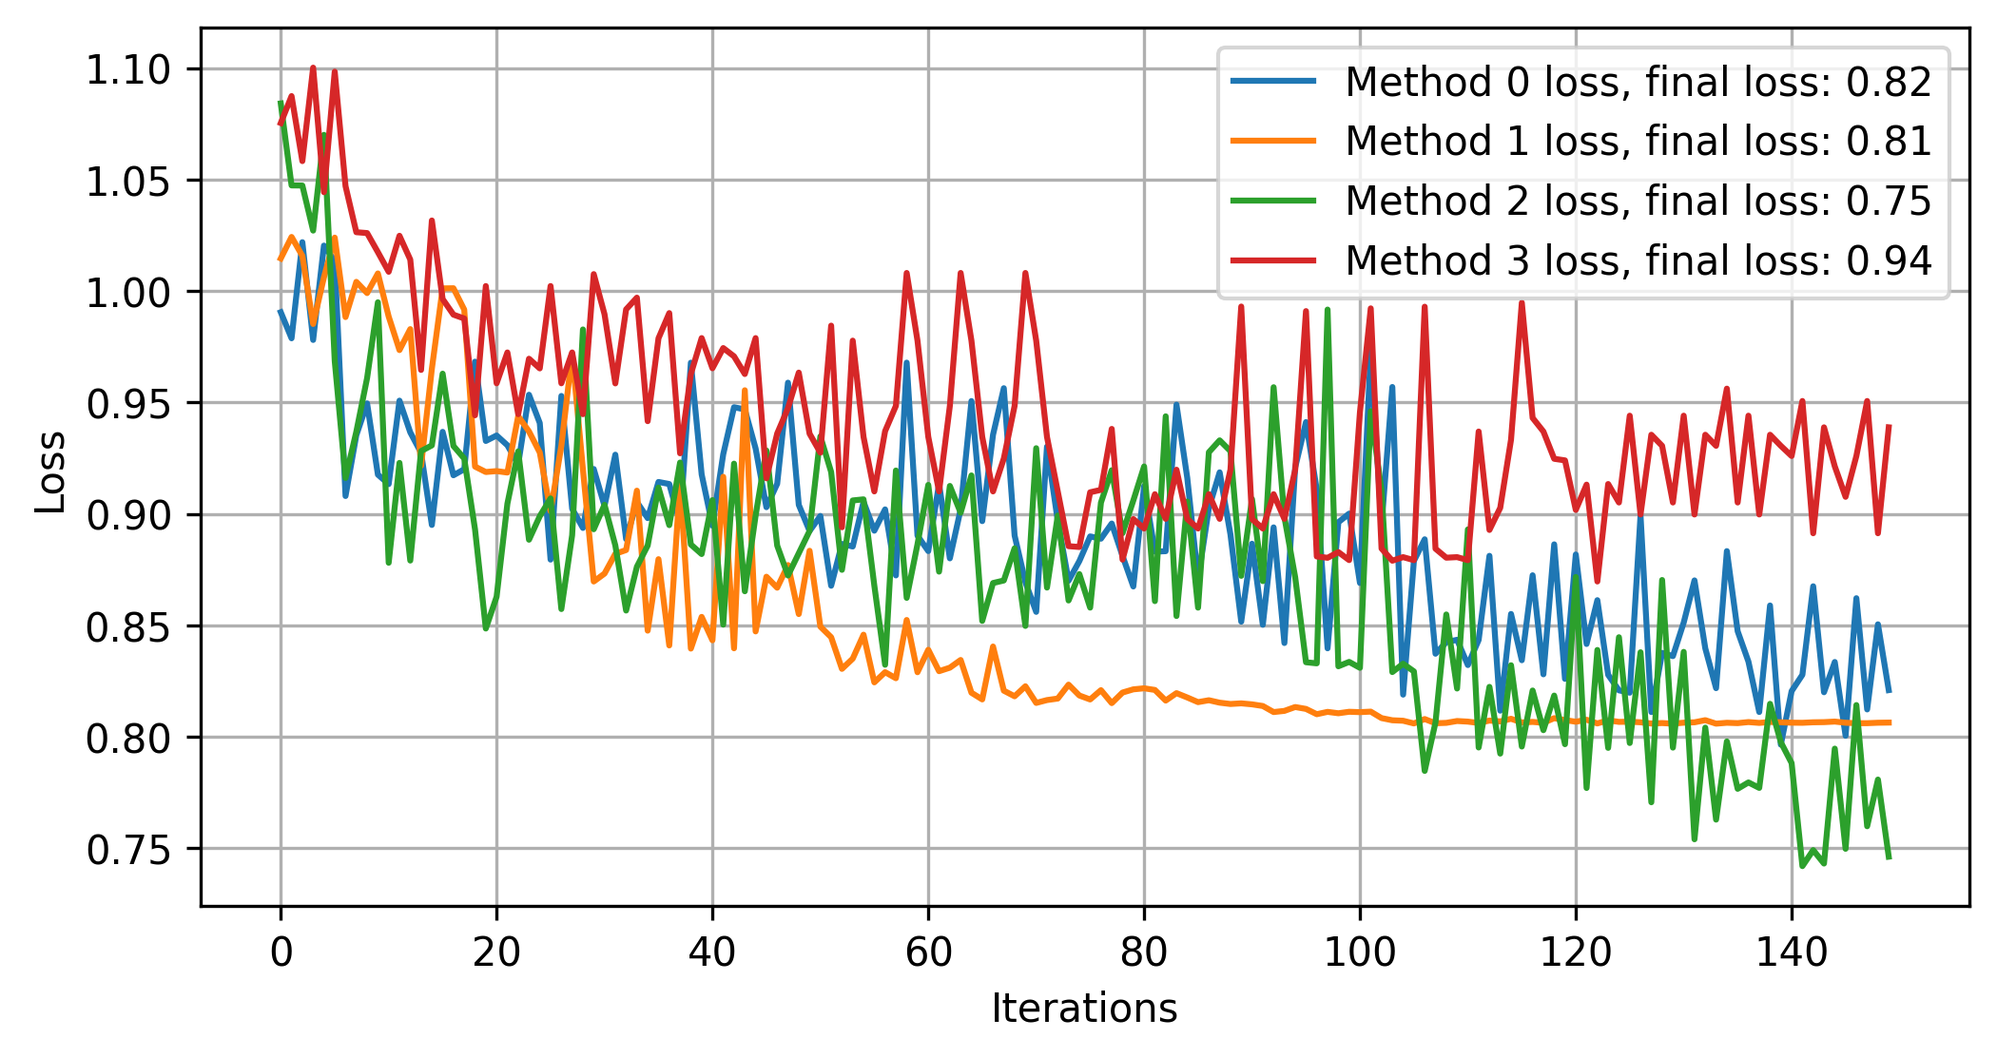
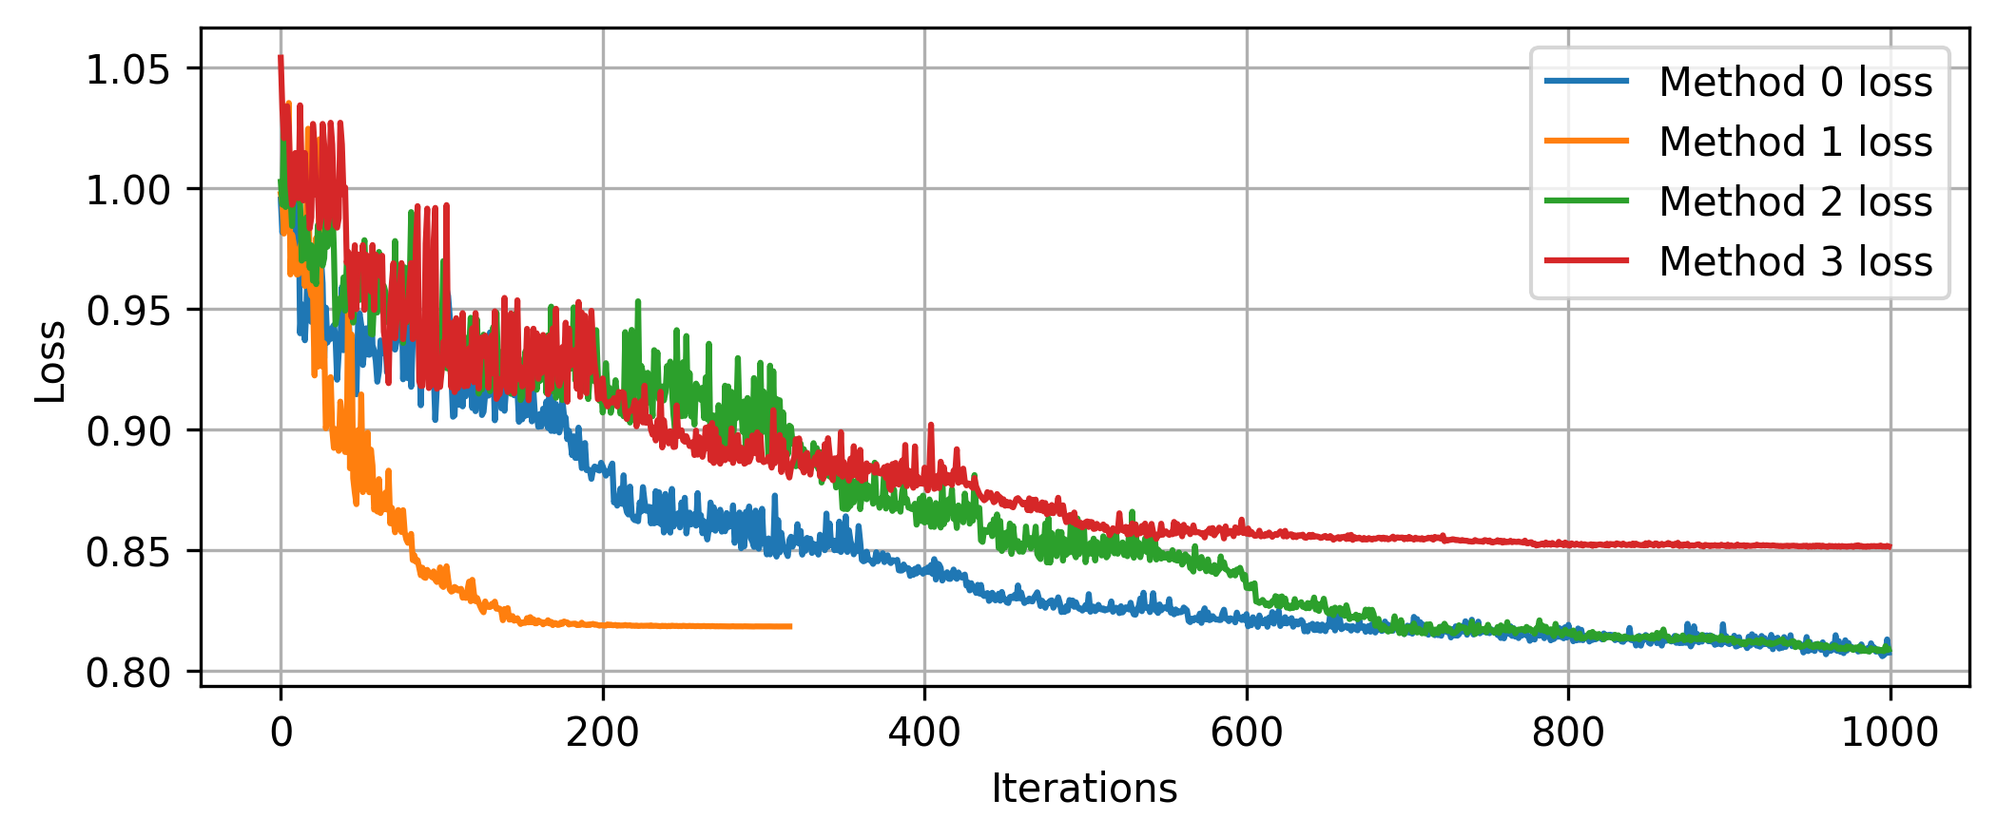
Reform the paper sections

Changed region(s): [[0.0, 0.0, 0.9905, 0.9796]]

diff --git a/Artefact/Content/Results.tex b/Artefact/Content/Results.tex
@@ -1,4 +1,4 @@
-\section{Findings} \label{Result section}
+% \section{Findings} \label{Result section}
 
 \subsubsection{Sampling Gradients results} \label{Sec: Sampling Gradients results}
 \begin{table*}
@@ -97,15 +97,15 @@ On the other hand, the values for the other cases shrink exponentially and event
     \centering
     \begin{tabular}{|| p{4cm} p{2cm} p{2cm} p{2cm} p{2cm} ||}
         \hline
-        \textbf{Method}                          & \textbf{Circuit depth} & \textbf{Parameters count} & \textbf{Reached loss} & \textbf{Accuracy Score} \\
+        \textbf{Method}                          & \textbf{Circuit depth} & \textbf{Parameters count} & \textbf{Accuracy at 150 iteration} & \textbf{Accuracy at 1000 iterations} \\
         \hline \hline
-        0: No Restriction                        & 161                    & 105                       & 0.82                  & 60\%                    \\
+        0: No Restriction                        & 123                    & 105                       & 60\%                               & 82.50\%                              \\
         \raggedright
         \hangindent=1em
         \hangafter=1
-        1: Local Cost Function - Shallow circuit & 25                     & 20                        & 0.81                  & 75\%                    \\
-        2: Layerwise Learning                    & 161                    & 105                       & 0.75                  & 82.5\%                  \\
-        3: Identity Blocks                       & 200                    & 200                       & 0.94                  & 77.5\%                  \\
+        1: Local Cost Function - Shallow circuit & 21                     & 20                        & 75\%                               & 75\%                                 \\
+        2: Layerwise Learning                    & 123                    & 105                       & 82.5\%                             & 82.5\%                               \\
+        3: Identity Blocks                       & 100                    & 100                       & 77.5\%                             & 77.5\%                               \\
         \hline
     \end{tabular}
     \caption{
@@ -115,19 +115,19 @@ On the other hand, the values for the other cases shrink exponentially and event
     \label{Tab: Experiment Phase 2 Res}
 \end{table*}
 
-We examine the practical performance of four models after 150 iterations of COBYLA optimisation, the results are shown in Table \ref{Tab: Experiment Phase 2 Res}.
+We examine the practical performance of four models at 150 and 1000 iterations of COBYLA optimisation, the results are shown in Table \ref{Tab: Experiment Phase 2 Res} and Figure \ref{Fig: Plot Loss and Accuracy}.
+Overall, the methods that involve configurations on the initial parameters can achieve lower loss in training and higher score on the classification test.
 
+We can see that while the unrestricted method has produced better result at 1000 iterations, the other methods accuracy remain unchanged after 150 seconds.
+The unrestricted method is likely to run into barren plateaus, therefore require more optimisation steps to find the global minimum.
 The unrestricted ansatz, as expected, performed the worst compared to the others.
-The local cost function - shallow depth ansatz seems to be the best in overcoming barren plateau as discussed in Section \ref{Sec: Sampling Gradients results}, and its accuracy score is indeed better than the unrestricted ansatz.
+
+The local cost function - shallow depth ansatz seems to be the best in overcoming barren plateau as discussed in Section \ref{Sec: Sampling Gradients results}, and the optimisation process indeed ended earlier compared to the other ansatzes (see Figure \ref{Fig: Plot Loss and Accuracy}a).
+We can see that at 150 iterations, the ansatz has more accuracy compared to the unrestricted method (see Figure \ref{Fig: Plot Loss and Accuracy}b).
 However, by restricting the ansatz depth, we may have limited the model capacity, therefore high error rate.
 On the other hand, the unrestricted ansatz has more layers and therefore more capacity to learn, but it is more likely to run into barren plateaus.
 This also applies to classical machine learning \cite{ianDeepLearningAdaptive2016}, more complex functions would require higher model capacity.
 Thus, the local cost function - shallow depth method is suitable if the dataset represents a simple function.
-
-% The unrestricted and local cost function - shallow depth ansatzes loss functions both converged at a value of 0.57.
-% The unrestricted ansatz, while converging to a value, the accuracy score of the classification test is the lowest (72.5\%).
-% Thus, the model is likely to stuck on a barren plateau, instead of converging into the global minima.
-% On the other hand, we can see that the local cost function and shallow circuit ansatz achieved higher accuracy in the classification test (at 80\% accuracy).
 
 The last two methods focused on the initial parameters while allowing longer circuits, resulting in better capacity to learn.
 We can see that with the optimised initial parameters, the ansatz has better accuracy compared to identity blocks initialisation.
@@ -136,8 +136,8 @@ The two methods also have their accuracy close to each other, scoring at 82.5\% 
 Thus they are suitable for designing ansatzes of higher layer count to learn more complex functions.
 
 
-To compare the effectiveness of different approaches, we plot the loss per iteration graph of above mention cases in Figure \ref{Fig: Plot Loss and Accuracy} and Table \ref{Tab: Experiment Phase 2 Res}
-Overall, the methods that involve configurations on the initial parameters can achieve lower loss in training and higher score on the classification test.
+% To compare the effectiveness of different approaches, we plot the loss per iteration graph of above mention cases in Figure \ref{Fig: Plot Loss and Accuracy} and Table \ref{Tab: Experiment Phase 2 Res}.
+% 
 
 \begin{figure}
     \begin{subfigure}{\linewidth}
@@ -146,7 +146,7 @@ Overall, the methods that involve configurations on the initial parameters can a
     \end{subfigure}
     \begin{subfigure}{\linewidth}
         \includegraphics[width=\linewidth]{Artefact/Appendices/accuracy.png}
-        \centerline{b) Accuracy score of four classifiers}
+        \centerline{b) Accuracy score of four classifiers after 150 optimisation steps}
     \end{subfigure}
 
     \caption{

diff --git a/ResearchDesign/Content/Classification.tex b/ResearchDesign/Content/Classification.tex
@@ -1,4 +1,4 @@
-\subsection{Classification Problem} \label{Sec: Classification Problem}
+\subsubsection{Classification Problem} \label{Sec: Classification Problem}
 We implement a variational quantum classifier as previously discussed in the section \ref{VQA}.
 The algorithm includes two stages: a training stage and a classification stage.
 We use a dataset which contain thirty features to identify the presence of breast cancer.
@@ -6,17 +6,23 @@ We apply Principal Component Analysis to the dataset obtain five training featur
 
 The quantum circuit for is constructed from three parts: the feature map to encode data, the ansatz to perform optimisation and finally, a final rotation layer for measurement (see Figure \ref{Fig: Quantum circuit for classifier}).
 The number of features will dictate the number of qubits, in our case, we will be using two qubits for the quantum circuit.
-For the methods unrestricted and layerwise learning, there is no restriction on ansatz depth, so we build the ansatz to have 20 repetitions (165 depth units).
-For the method local cost function - shallow depth, we only use three repetitions (25 depth units).
+For the methods unrestricted and layerwise learning, there is no restriction on ansatz depth, so we build the ansatz to have 20 repetitions (123 depth units).
+For the method local cost function - shallow depth, we only use five repetitions (100 depth units).
 For the identity blocks method, we will be using ten identity blocks as the ansatz, which results in 200 depth units.
 
-\todo{describe more about COBYLA and its characteristic}
 The dataset consisted of 80 labelled datapoints with five features used for the training process.
-The COBYLA algorithm provided by Qiskit will estimate the quantum circuit to optimise the ansatz parameters in maximum of 150 iterations.
+The COBYLA algorithm provided by Qiskit will estimate the quantum circuit to optimise the ansatz parameters in maximum of 1000 iterations.
 The cost function value for COBYLA algorithm is calculated as squared error.
+Compared to Gradient Descent, COBYLA algorithm perform random search to avoid local minima in the cost function landscape.
+The algorithm was also reported to have better runtime performance compared to traditional gradient descent \cite{huangEmpiricalStudyOptimizers2020, bonet-monroigPerformanceComparisonOptimization2021}.
+For the traditional gradient descent algorithm, it may require tuning on its hyperparameters to achieve better speed and quality, due to time constraints we leave this matter for future experiment.
+
 For the classification benchmark, we use another set of 20 datapoints, and run the classifier with the optimised parameters obtained from the training stage.
 The classifier would produce the predicted labels for each testing datapoint.
 Then, we compare these predicted labels to the actual provided labels.
+We record the classification results at 150 iterations and 1000 iterations.
+
+
 
 We collect the optimiser' history (loss function per iteration) by implementing a callback function for the variational quantum classifier.
 The accuracy score $s$ of the classifier is calculated as the percentage likeliness of the predicted labels array compared to the actual labels array:

diff --git a/Artefact/Content/Summary.tex b/Artefact/Content/Summary.tex
@@ -8,13 +8,20 @@ With this artefact, we have addressed the research design in Section \ref{Resear
 We have implemented the three methods, namely \textit{local cost function, shallow ansatz depth}, \textit{layerwise learning} and \textit{identity blocks}.
 We have compared the variances in the first phase of the experiment.
 According to Figure \ref{Fig: Plot Variances}, the variance values of the limited depth - cost function method at seven qubits configuration is significantly higher than the rest.
-% At higher qubit configuration, the barren plateaus are also more likely to appear, and the performance of these methods under this phenomenon is worth investigating.
 We anticipate that a higher variance value does not mean the optimisation is going in the right direction, the model can still stick it in a local minimum, or the error landscape is random.
 To verify the performance of these methods, in the second phase, we implemented a variational quantum neural network to solve a classification problem with a standard dataset.
 
 The phase two of the experiments have verified that the unrestricted configuration may have run into a barren plateau, while the others can converge to their minimums - the answers.
 Moreover, these experiments are conducted in an emulated environment with a noise model from \emph{ibm\_perth} backend.
 Thus, this experiment can reflect the real-life situation to some extent.
+
+
+So far we have tested the ansatzes with extended number of layers.
+However, the number of qubits is also a factor that leads to barren plateaus.
+While it is possible to run the exepriment with higher qubit counts to replicate the result by Cereze et al. \cite{cerezoCostFunctionDependent2021}, due to constraints in time and computation resourses, we only use up to five qubits with COBYLA optimiser.
+The research also open a new question about the relationship between model capacity, datasets and barren plateau.
+Furthermore, we have not covered the performance comparison between identity blocks and the real amplitude circuit in general use cases.
+These issues are left for further studies and experiments.
 
 % According to Figure \ref{Fig: Plot Variances}, the variance values of the limited depth - cost function method at seven qubits configuration is significantly higher than the rest.
 % At higher qubit configuration, the barren plateaus are also more likely to appear, and the performance of these methods under this phenomenon is worth investigating.

diff --git a/ResearchDesign/Content/Data-Artefact.tex b/ResearchDesign/Content/Data-Artefact.tex
@@ -6,16 +6,6 @@ The notebook will require some pre-installed resources to execute (refer to Sect
 As we are conducting experiments on quantum circuits, quantum hardware is also required.
 The notebook will be configured to communicate with an IBM quantum device.
 
-% I tried to describe the output form of the python notebook, but it is more like a duplicate with section Research Activities above, so I removed this section
-% \almarginpar{I do not understand this}After the first phase, we will obtain the selected ansatzes objects with the four treatments applied (see Figure \ref{Research Activities Figure}) and their variance shrinking rates.
-% The shrinking rate can be recorded as a list of numbers and presented as line graphs (for example, see Figure \ref{Variance Shrinking demo}).
-% With this data, we can fulfil the first criteria in the Section \ref{Criteria section} by comparing the shrinking rate of each method.
-
-% For the second phase, we will need to further develop the ansatzes from phase one into QNN models. We use the same input data and the optimiser across all models to preserve clarity.
-% We run the models along with a benchmark script that records the progress and properties of models (refer to Section \ref{Criteria section})
-
-% Finally, we summarise the research results and present the findings.
-
 \subsubsection{Success Condition}
 The experiment will be concluded when these conditions are met:
 \begin{itemize}
@@ -24,3 +14,7 @@ The experiment will be concluded when these conditions are met:
     \item The ansatzes are implemented as QNN models to solve problems.
     \item The outcomes are evaluated against the criteria.
 \end{itemize}
+
+\input{ResearchDesign/Content/VisualGradient.tex}
+
+\input{ResearchDesign/Content/Classification.tex}

diff --git a/Artefact/main.tex b/Artefact/main.tex
@@ -1,4 +1,4 @@
-\section{Artefact Development Report}\label{Minimum Artefact section}
+\section{Artefact Evaluation and Disscussions} \label{Result section}
 
 In this section, we describe the progress on the artefact development, the detail and context for the experiments are given as Section \ref{Research Design section}.
 We address the process (see Section \ref{Research Activities section}) by implementing a series of exploratory experiments.
@@ -8,19 +8,19 @@ We use the hardware noise sample from the device \emph{ibm\_perth} to configure 
 
 We have chosen the ansatz \emph{Real Amplitude} and a custom ansatz (see Section \ref{Sec: Creating Ansatzes}) as the objects of study.
 The four treatments applied to these ansatzes are further discussed in Section \ref{Sec: Treatments for ansatzes} (see Table \ref{implementation of methods table} and Figure \ref{Research Activities Figure}).
-We summarise the experiment results from Section \ref{Result section} in Table \ref{Tab: Experiment Phase 1 Res} and \ref{Tab: Experiment Phase 2 Res}.
+We summarise the experiment results in Table \ref{Tab: Experiment Phase 1 Res} and Table \ref{Tab: Experiment Phase 2 Res}.
 
 
 
-\input{Artefact/Content/QuantumProvider.tex}
+% \input{Artefact/Content/QuantumProvider.tex}
 
-\input{Artefact/Content/Ansatzes.tex}
+% \input{Artefact/Content/Ansatzes.tex}
 
-\input{Artefact/Content/Treatments.tex}
+% \input{Artefact/Content/Treatments.tex}
 
-\input{Artefact/Content/VisualGradient.tex}
+% \input{Artefact/Content/VisualGradient.tex}
 
-\input{Artefact/Content/Classification.tex}
+% \input{Artefact/Content/Classification.tex}
 
 \input{Artefact/Content/Results.tex}
 

diff --git a/ProjectDesc/Content/objectives.tex b/ProjectDesc/Content/objectives.tex
@@ -12,7 +12,7 @@ To answer the above research question, it will be necessary to meet the followin
           \begin{enumerate}
               \item Provide the background information for quantum computing, VQA and QNN, which enables definition of the research question (completed, see Section \ref{Sec: Background Section});
               \item Define the BP problem and the causes that would lead to this phenomenon \cite{wangNoiseinducedBarrenPlateaus2021,zhaoAnalyzingBarrenPlateau2021} (completed, see Section \ref{Problem Section});
-              \item Investigate several methods to mitigate or avoid BP \cite{pesahAbsenceBarrenPlateaus2021, pattiEntanglementDevisedBarren2021,liuParameterInitializationMethod2021} (completed as minimum viable artefact, see Section \ref{Minimum Artefact section});
+              \item Investigate several methods to mitigate or avoid BP \cite{pesahAbsenceBarrenPlateaus2021, pattiEntanglementDevisedBarren2021,liuParameterInitializationMethod2021};
           \end{enumerate}
     \item Trimester 2 - 2022: Addressing the gaps
           \begin{enumerate}

diff --git a/ResearchDesign/Content/Ansatzes.tex b/ResearchDesign/Content/Ansatzes.tex
@@ -1,4 +1,4 @@
-\subsection{Creating Ansatzes} \label{Sec: Creating Ansatzes}
+\subsubsection{Creating Ansatzes} \label{Sec: Creating Ansatzes}
 We have chosen the \textit{Real Amplitudes} ansatz from Qiskit circuit library.
 An example of circuits generated by Qiskit is visualised in Figure \ref{Fig: Ansatz samples}.
 We can generate different ansatz by altering the repetition number and qubit number.
@@ -22,5 +22,5 @@ Figure \ref{Fig: Ansatz samples} further shows that the higher number of qubits 
     \label{Fig: Ansatz samples}
 \end{figure}
 
-For the case of method 3, we will be using a customised ansatz, since reversing an ansatz would cancel the effect of the entanglement layer.
+For the case of identity block method, we will be using a customised ansatz, since reversing an ansatz would cancel the effect of the entanglement layer.
 The customised ansatz are specialised to create identity blocks without losing the entanglement layers, section \ref{Sec: Method3} gives further discussion of this ansatz.

diff --git a/ResearchDesign/Content/Activity.tex b/ResearchDesign/Content/Activity.tex
@@ -5,6 +5,7 @@ We implement the process with an experiment of two phases:
 \textbf{In the first phase, we reproduce the barren plateaus phenomenon.}
 We use Qiskit \cite{Qiskit} to construct the ansatzes.
 For each ansatz, we implement and apply four different methods (see Figure \ref{Research Activities Figure} and Table \ref{implementation of methods table}).
+Further implementation of the four methods are discussed in Section \ref{Sec: Treatments for ansatzes}.
 By definition of barren plateau as discussed in Section \ref{Literature Review section}, we would expect the shrinking rate of the variance values to be \textit{exponential} (see Figure \ref{Variance Shrinking demo}) if the initial parameter has landed in a barren plateau.
 We keep track of the variance and the number of qubits to see if the variance is shrinking at this rate.
 The result of the first phase is to determine which combinations of the ansatz and the BP treatment result in the shrinking rate of the loss function gradients.

diff --git a/ResearchDesign/Content/Resources.tex b/ResearchDesign/Content/Resources.tex
@@ -4,7 +4,7 @@ Most of our required resources are open-sources:
     \item Python 3.6+:\\ \url{https://www.python.org/downloads/}
     \item Jupyter Notebook:\\ \url{https://jupyter.org/}
     \item Qiskit:\\
-    \url{https://qiskit.org/}
+          \url{https://qiskit.org/}
     \item IBM Quantum:\\ \url{https://quantum-computing.ibm.com/}
     \item Qiskit circuit library:\\ \url{https://qiskit.org/documentation/apidoc/circuit_library.html}
 \end{itemize}
@@ -24,3 +24,7 @@ The Qiskit circuit library also allows custom parameterized circuits to be used 
 Each of the circuit templates is used for different purposes, such as quantum chemistry, quantum neural network, quantum eigensolver, etc.
 They also have their advantages or disadvantages.
 For example, it is common to use the \textit{RealAmplitudes} ansatz to implement a multi-layer perceptron neural network.
+
+\input{ResearchDesign/Content/Ansatzes.tex}
+
+\input{ResearchDesign/Content/QuantumProvider.tex}

diff --git a/Conclusion/main.tex b/Conclusion/main.tex
@@ -19,4 +19,5 @@ On the other hand, the local cost function, combined with restricted depth, can 
 For the ansatzes with lower depth, we can expect more learning capacity.
 The initial parameter factor in theses ansatzes would significantly contribute to the accuracy in the classification problem, with some trade-offs between time and quality.
 
-We leave the relationship between training data, capacity and barren plateaus for future works, because while the ansatz structures can cause barren plateau, it also related to the learning capacity of the QNN model given the training data.
+Our study thus provide guidedance for further implementations of ansatzes for hybrid quantum algorithms in experiment.
+We leave the relationship between training data, capacity and barren plateaus for future works, as well as further experiments with more qubits, and gradient descent with hyperparameter tuning.

diff --git a/ResearchDesign/Content/VisualGradient.tex b/ResearchDesign/Content/VisualGradient.tex
@@ -1,5 +1,4 @@
-\subsection{Visualise the Variance} \label{Sec: Visualise the Variance}
-\todo{move to design section}
+\subsubsection{Visualise the Variance} \label{Sec: Visualise the Variance}
 We use the parameter shift rule from Eq. (\ref{Parameter-shift rules}) as implemented in the Qiskit Gradient library to calculate the gradient variance.
 The BP phenomena can be verified when the gradient variance exponentially decreases with an increased number of qubits and repetition layers.
 

diff --git a/ResearchDesign/Content/QuantumProvider.tex b/ResearchDesign/Content/QuantumProvider.tex
@@ -1,4 +1,4 @@
-\subsection{The Quantum Provider}
+\subsubsection{The Quantum Provider}
 For this experiment, we are using the quantum emulator provided by Qiskit.
 The QASM simulator is used to mimic an IBMQ device.
 Additionally, the QASM simulator, by default, has no noise, so we configure the emulator to receive  noise profile from the backend \emph{ibm\_perth}.
